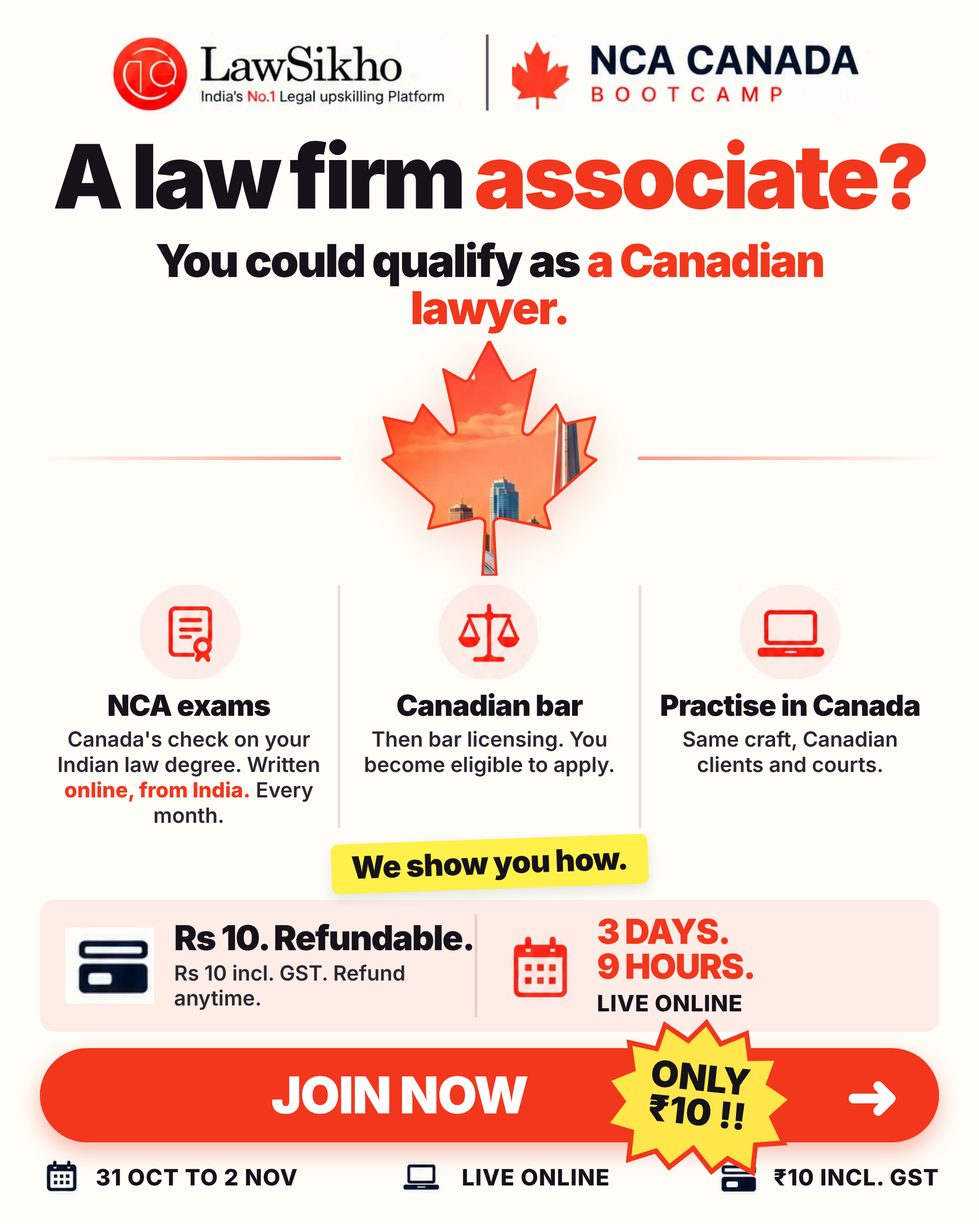
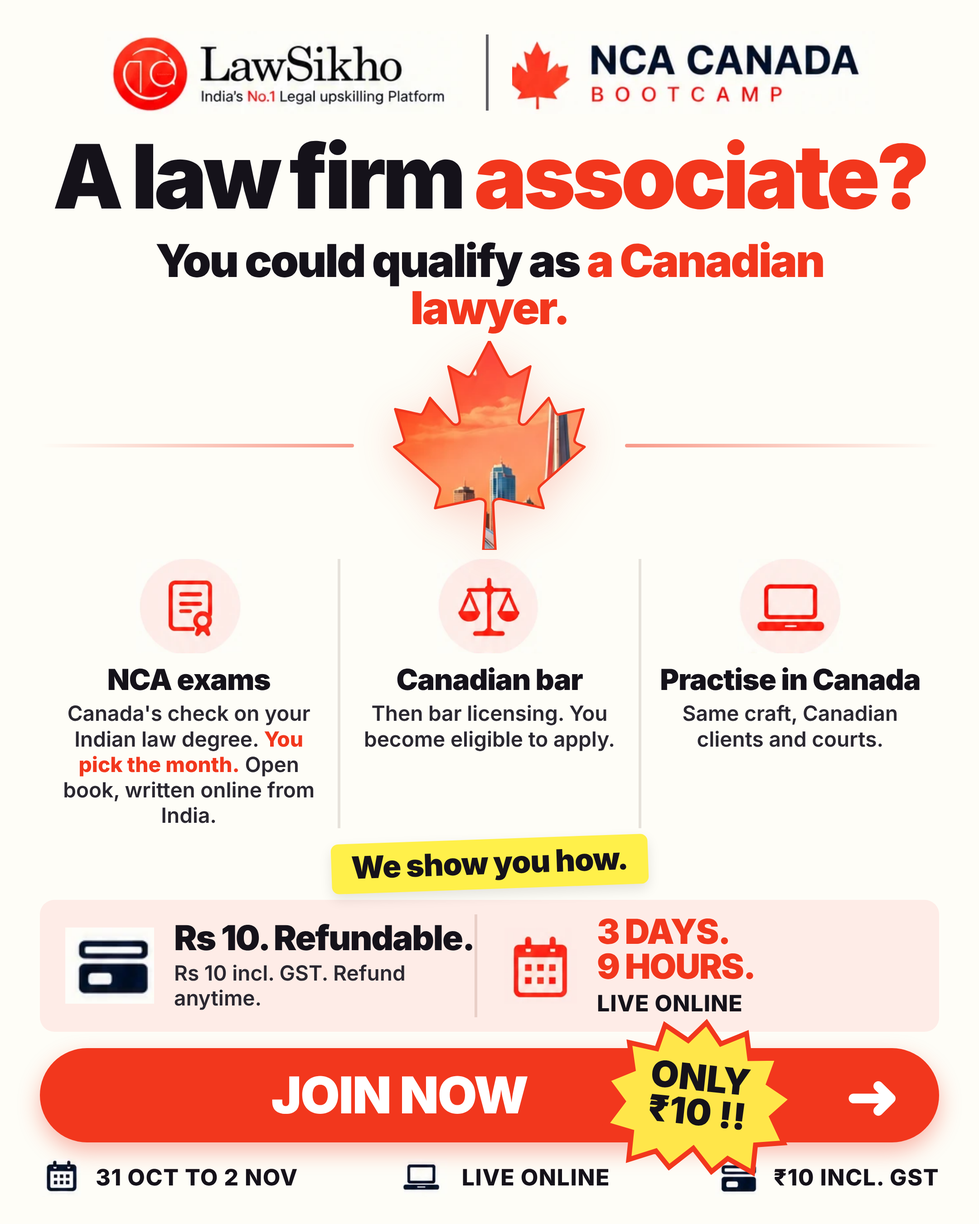
NCA exams pillar: mechanism line with agency
New caption: Canada's check on your Indian law degree. You pick the month.
Open book, written online from India. Pick-the-month is the approved hook 6
phrasing and the around-your-life mechanism blind readers scored highest;
open book is sourced to nca.legal in the web research doc.

Claude-Session: https://claude.ai/code/session_01Rgy1nQS1Vhzfu9YdFrEqSi

diff --git a/creatives/NCA_SkylineTemplate/html/nca_sky_01_broad_thinking_about_canada.html b/creatives/NCA_SkylineTemplate/html/nca_sky_01_broad_thinking_about_canada.html
@@ -46,7 +46,7 @@ em{font-style:normal;color:#F2371D}
 <div class="leafbox"><div class="rule l"></div><div class="leafwrap"><svg viewBox="0 0 512 512" preserveAspectRatio="xMidYMid meet"><defs><clipPath id="leaf"><path d="M383.8 351.7c2.5-2.5 105.2-92.4 105.2-92.4l-17.5-7.5c-10-4.9-7.4-11.5-5-17.4 2.4-7.6 20.1-67.3 20.1-67.3s-47.7 10-57.7 12.5c-7.5 2.4-10-2.5-12.5-7.5s-15-32.4-15-32.4-52.6 59.9-55.1 62.3c-10 7.5-20.1 0-17.6-10 0-10 27.6-129.6 27.6-129.6s-30.1 17.4-40.1 22.4c-7.5 5-12.6 5-17.6-5C293.5 72.3 255.9 0 255.9 0s-37.5 72.3-42.5 79.8c-5 10-10 10-17.6 5-10-5-40.1-22.4-40.1-22.4s27.6 119.6 27.6 129.6c2.5 10-7.5 17.5-17.5 10-2.5-2.5-55.1-62.3-55.1-62.3s-12.5 27.5-15 32.4c-2.5 5.1-5 10-12.5 7.5-10-2.5-57.7-12.5-57.7-12.5s17.7 59.7 20.1 67.3c2.4 6 5 12.5-5 17.4L23 259.3s102.6 89.9 105.2 92.4c5.1 5 10 7.5 5.1 22.5-5.1 15-10.1 35.1-10.1 35.1s95.2-20.1 105.3-22.6c8.7-.9 18.3 2.5 18.3 12.5S241 512 241 512h30s-5.8-102.7-5.8-112.8 9.5-13.4 18.3-12.5c10 2.5 105.3 22.6 105.3 22.6s-5-20.1-10.1-35.1c-4.9-15 0-17.5 5.1-22.5z"/></clipPath></defs>
 <image href="../assets/skyline_fill.png" x="0" y="0" width="512" height="512" preserveAspectRatio="xMidYMid slice" clip-path="url(#leaf)"/>
 <path d="M383.8 351.7c2.5-2.5 105.2-92.4 105.2-92.4l-17.5-7.5c-10-4.9-7.4-11.5-5-17.4 2.4-7.6 20.1-67.3 20.1-67.3s-47.7 10-57.7 12.5c-7.5 2.4-10-2.5-12.5-7.5s-15-32.4-15-32.4-52.6 59.9-55.1 62.3c-10 7.5-20.1 0-17.6-10 0-10 27.6-129.6 27.6-129.6s-30.1 17.4-40.1 22.4c-7.5 5-12.6 5-17.6-5C293.5 72.3 255.9 0 255.9 0s-37.5 72.3-42.5 79.8c-5 10-10 10-17.6 5-10-5-40.1-22.4-40.1-22.4s27.6 119.6 27.6 129.6c2.5 10-7.5 17.5-17.5 10-2.5-2.5-55.1-62.3-55.1-62.3s-12.5 27.5-15 32.4c-2.5 5.1-5 10-12.5 7.5-10-2.5-57.7-12.5-57.7-12.5s17.7 59.7 20.1 67.3c2.4 6 5 12.5-5 17.4L23 259.3s102.6 89.9 105.2 92.4c5.1 5 10 7.5 5.1 22.5-5.1 15-10.1 35.1-10.1 35.1s95.2-20.1 105.3-22.6c8.7-.9 18.3 2.5 18.3 12.5S241 512 241 512h30s-5.8-102.7-5.8-112.8 9.5-13.4 18.3-12.5c10 2.5 105.3 22.6 105.3 22.6s-5-20.1-10.1-35.1c-4.9-15 0-17.5 5.1-22.5z" fill="none" stroke="#F2371D" stroke-width="6" stroke-linejoin="round"/></svg></div><div class="rule r"></div></div>
-<div class="pillars"><div class="pil"><img src="../assets/icon_nca.png"><div class="pt">NCA exams</div><div class="pd">Canada's check on your Indian law degree. Written <em>online, from India.</em> Every month.</div></div><div class="pil"><img src="../assets/icon_bar.png"><div class="pt">Canadian bar</div><div class="pd">Then bar licensing. You become eligible to apply.</div></div><div class="pil"><img src="../assets/icon_laptop.png"><div class="pt">Practise in Canada</div><div class="pd">Same craft, Canadian clients and courts.</div></div></div>
+<div class="pillars"><div class="pil"><img src="../assets/icon_nca.png"><div class="pt">NCA exams</div><div class="pd">Canada's check on your Indian law degree. <em>You pick the month.</em> Open book, written online from India.</div></div><div class="pil"><img src="../assets/icon_bar.png"><div class="pt">Canadian bar</div><div class="pd">Then bar licensing. You become eligible to apply.</div></div><div class="pil"><img src="../assets/icon_laptop.png"><div class="pt">Practise in Canada</div><div class="pd">Same craft, Canadian clients and courts.</div></div></div>
 <div class="sticker">We show you how.</div>
 <div class="band">
  <div class="cell"><img src="../assets/foot_card.png"><div><div class="cb">Rs 10. Refundable.</div><div class="cs">Rs 10 incl. GST. Refund anytime.</div></div></div>

diff --git a/creatives/NCA_SkylineTemplate/html/nca_sky_02_final_year_student.html b/creatives/NCA_SkylineTemplate/html/nca_sky_02_final_year_student.html
@@ -46,7 +46,7 @@ em{font-style:normal;color:#F2371D}
 <div class="leafbox"><div class="rule l"></div><div class="leafwrap"><svg viewBox="0 0 512 512" preserveAspectRatio="xMidYMid meet"><defs><clipPath id="leaf"><path d="M383.8 351.7c2.5-2.5 105.2-92.4 105.2-92.4l-17.5-7.5c-10-4.9-7.4-11.5-5-17.4 2.4-7.6 20.1-67.3 20.1-67.3s-47.7 10-57.7 12.5c-7.5 2.4-10-2.5-12.5-7.5s-15-32.4-15-32.4-52.6 59.9-55.1 62.3c-10 7.5-20.1 0-17.6-10 0-10 27.6-129.6 27.6-129.6s-30.1 17.4-40.1 22.4c-7.5 5-12.6 5-17.6-5C293.5 72.3 255.9 0 255.9 0s-37.5 72.3-42.5 79.8c-5 10-10 10-17.6 5-10-5-40.1-22.4-40.1-22.4s27.6 119.6 27.6 129.6c2.5 10-7.5 17.5-17.5 10-2.5-2.5-55.1-62.3-55.1-62.3s-12.5 27.5-15 32.4c-2.5 5.1-5 10-12.5 7.5-10-2.5-57.7-12.5-57.7-12.5s17.7 59.7 20.1 67.3c2.4 6 5 12.5-5 17.4L23 259.3s102.6 89.9 105.2 92.4c5.1 5 10 7.5 5.1 22.5-5.1 15-10.1 35.1-10.1 35.1s95.2-20.1 105.3-22.6c8.7-.9 18.3 2.5 18.3 12.5S241 512 241 512h30s-5.8-102.7-5.8-112.8 9.5-13.4 18.3-12.5c10 2.5 105.3 22.6 105.3 22.6s-5-20.1-10.1-35.1c-4.9-15 0-17.5 5.1-22.5z"/></clipPath></defs>
 <image href="../assets/skyline_fill.png" x="0" y="0" width="512" height="512" preserveAspectRatio="xMidYMid slice" clip-path="url(#leaf)"/>
 <path d="M383.8 351.7c2.5-2.5 105.2-92.4 105.2-92.4l-17.5-7.5c-10-4.9-7.4-11.5-5-17.4 2.4-7.6 20.1-67.3 20.1-67.3s-47.7 10-57.7 12.5c-7.5 2.4-10-2.5-12.5-7.5s-15-32.4-15-32.4-52.6 59.9-55.1 62.3c-10 7.5-20.1 0-17.6-10 0-10 27.6-129.6 27.6-129.6s-30.1 17.4-40.1 22.4c-7.5 5-12.6 5-17.6-5C293.5 72.3 255.9 0 255.9 0s-37.5 72.3-42.5 79.8c-5 10-10 10-17.6 5-10-5-40.1-22.4-40.1-22.4s27.6 119.6 27.6 129.6c2.5 10-7.5 17.5-17.5 10-2.5-2.5-55.1-62.3-55.1-62.3s-12.5 27.5-15 32.4c-2.5 5.1-5 10-12.5 7.5-10-2.5-57.7-12.5-57.7-12.5s17.7 59.7 20.1 67.3c2.4 6 5 12.5-5 17.4L23 259.3s102.6 89.9 105.2 92.4c5.1 5 10 7.5 5.1 22.5-5.1 15-10.1 35.1-10.1 35.1s95.2-20.1 105.3-22.6c8.7-.9 18.3 2.5 18.3 12.5S241 512 241 512h30s-5.8-102.7-5.8-112.8 9.5-13.4 18.3-12.5c10 2.5 105.3 22.6 105.3 22.6s-5-20.1-10.1-35.1c-4.9-15 0-17.5 5.1-22.5z" fill="none" stroke="#F2371D" stroke-width="6" stroke-linejoin="round"/></svg></div><div class="rule r"></div></div>
-<div class="pillars"><div class="pil"><img src="../assets/icon_nca.png"><div class="pt">NCA exams</div><div class="pd">Canada's check on your Indian law degree. Written <em>online, from India.</em> Every month.</div></div><div class="pil"><img src="../assets/icon_bar.png"><div class="pt">Canadian bar</div><div class="pd">Then bar licensing. You become eligible to apply.</div></div><div class="pil"><img src="../assets/icon_laptop.png"><div class="pt">Practise in Canada</div><div class="pd">Same craft, Canadian clients and courts.</div></div></div>
+<div class="pillars"><div class="pil"><img src="../assets/icon_nca.png"><div class="pt">NCA exams</div><div class="pd">Canada's check on your Indian law degree. <em>You pick the month.</em> Open book, written online from India.</div></div><div class="pil"><img src="../assets/icon_bar.png"><div class="pt">Canadian bar</div><div class="pd">Then bar licensing. You become eligible to apply.</div></div><div class="pil"><img src="../assets/icon_laptop.png"><div class="pt">Practise in Canada</div><div class="pd">Same craft, Canadian clients and courts.</div></div></div>
 <div class="sticker">We show you how.</div>
 <div class="band">
  <div class="cell"><img src="../assets/foot_card.png"><div><div class="cb">Rs 10. Refundable.</div><div class="cs">Rs 10 incl. GST. Refund anytime.</div></div></div>

diff --git a/creatives/NCA_SkylineTemplate/html/nca_sky_03_fresh_graduate.html b/creatives/NCA_SkylineTemplate/html/nca_sky_03_fresh_graduate.html
@@ -46,7 +46,7 @@ em{font-style:normal;color:#F2371D}
 <div class="leafbox"><div class="rule l"></div><div class="leafwrap"><svg viewBox="0 0 512 512" preserveAspectRatio="xMidYMid meet"><defs><clipPath id="leaf"><path d="M383.8 351.7c2.5-2.5 105.2-92.4 105.2-92.4l-17.5-7.5c-10-4.9-7.4-11.5-5-17.4 2.4-7.6 20.1-67.3 20.1-67.3s-47.7 10-57.7 12.5c-7.5 2.4-10-2.5-12.5-7.5s-15-32.4-15-32.4-52.6 59.9-55.1 62.3c-10 7.5-20.1 0-17.6-10 0-10 27.6-129.6 27.6-129.6s-30.1 17.4-40.1 22.4c-7.5 5-12.6 5-17.6-5C293.5 72.3 255.9 0 255.9 0s-37.5 72.3-42.5 79.8c-5 10-10 10-17.6 5-10-5-40.1-22.4-40.1-22.4s27.6 119.6 27.6 129.6c2.5 10-7.5 17.5-17.5 10-2.5-2.5-55.1-62.3-55.1-62.3s-12.5 27.5-15 32.4c-2.5 5.1-5 10-12.5 7.5-10-2.5-57.7-12.5-57.7-12.5s17.7 59.7 20.1 67.3c2.4 6 5 12.5-5 17.4L23 259.3s102.6 89.9 105.2 92.4c5.1 5 10 7.5 5.1 22.5-5.1 15-10.1 35.1-10.1 35.1s95.2-20.1 105.3-22.6c8.7-.9 18.3 2.5 18.3 12.5S241 512 241 512h30s-5.8-102.7-5.8-112.8 9.5-13.4 18.3-12.5c10 2.5 105.3 22.6 105.3 22.6s-5-20.1-10.1-35.1c-4.9-15 0-17.5 5.1-22.5z"/></clipPath></defs>
 <image href="../assets/skyline_fill.png" x="0" y="0" width="512" height="512" preserveAspectRatio="xMidYMid slice" clip-path="url(#leaf)"/>
 <path d="M383.8 351.7c2.5-2.5 105.2-92.4 105.2-92.4l-17.5-7.5c-10-4.9-7.4-11.5-5-17.4 2.4-7.6 20.1-67.3 20.1-67.3s-47.7 10-57.7 12.5c-7.5 2.4-10-2.5-12.5-7.5s-15-32.4-15-32.4-52.6 59.9-55.1 62.3c-10 7.5-20.1 0-17.6-10 0-10 27.6-129.6 27.6-129.6s-30.1 17.4-40.1 22.4c-7.5 5-12.6 5-17.6-5C293.5 72.3 255.9 0 255.9 0s-37.5 72.3-42.5 79.8c-5 10-10 10-17.6 5-10-5-40.1-22.4-40.1-22.4s27.6 119.6 27.6 129.6c2.5 10-7.5 17.5-17.5 10-2.5-2.5-55.1-62.3-55.1-62.3s-12.5 27.5-15 32.4c-2.5 5.1-5 10-12.5 7.5-10-2.5-57.7-12.5-57.7-12.5s17.7 59.7 20.1 67.3c2.4 6 5 12.5-5 17.4L23 259.3s102.6 89.9 105.2 92.4c5.1 5 10 7.5 5.1 22.5-5.1 15-10.1 35.1-10.1 35.1s95.2-20.1 105.3-22.6c8.7-.9 18.3 2.5 18.3 12.5S241 512 241 512h30s-5.8-102.7-5.8-112.8 9.5-13.4 18.3-12.5c10 2.5 105.3 22.6 105.3 22.6s-5-20.1-10.1-35.1c-4.9-15 0-17.5 5.1-22.5z" fill="none" stroke="#F2371D" stroke-width="6" stroke-linejoin="round"/></svg></div><div class="rule r"></div></div>
-<div class="pillars"><div class="pil"><img src="../assets/icon_nca.png"><div class="pt">NCA exams</div><div class="pd">Canada's check on your Indian law degree. Written <em>online, from India.</em> Every month.</div></div><div class="pil"><img src="../assets/icon_bar.png"><div class="pt">Canadian bar</div><div class="pd">Then bar licensing. You become eligible to apply.</div></div><div class="pil"><img src="../assets/icon_laptop.png"><div class="pt">Practise in Canada</div><div class="pd">Same craft, Canadian clients and courts.</div></div></div>
+<div class="pillars"><div class="pil"><img src="../assets/icon_nca.png"><div class="pt">NCA exams</div><div class="pd">Canada's check on your Indian law degree. <em>You pick the month.</em> Open book, written online from India.</div></div><div class="pil"><img src="../assets/icon_bar.png"><div class="pt">Canadian bar</div><div class="pd">Then bar licensing. You become eligible to apply.</div></div><div class="pil"><img src="../assets/icon_laptop.png"><div class="pt">Practise in Canada</div><div class="pd">Same craft, Canadian clients and courts.</div></div></div>
 <div class="sticker">We show you how.</div>
 <div class="band">
  <div class="cell"><img src="../assets/foot_card.png"><div><div class="cb">Rs 10. Refundable.</div><div class="cs">Rs 10 incl. GST. Refund anytime.</div></div></div>

diff --git a/creatives/NCA_SkylineTemplate/html/nca_sky_04_newly_enrolled_advocate.html b/creatives/NCA_SkylineTemplate/html/nca_sky_04_newly_enrolled_advocate.html
@@ -46,7 +46,7 @@ em{font-style:normal;color:#F2371D}
 <div class="leafbox"><div class="rule l"></div><div class="leafwrap"><svg viewBox="0 0 512 512" preserveAspectRatio="xMidYMid meet"><defs><clipPath id="leaf"><path d="M383.8 351.7c2.5-2.5 105.2-92.4 105.2-92.4l-17.5-7.5c-10-4.9-7.4-11.5-5-17.4 2.4-7.6 20.1-67.3 20.1-67.3s-47.7 10-57.7 12.5c-7.5 2.4-10-2.5-12.5-7.5s-15-32.4-15-32.4-52.6 59.9-55.1 62.3c-10 7.5-20.1 0-17.6-10 0-10 27.6-129.6 27.6-129.6s-30.1 17.4-40.1 22.4c-7.5 5-12.6 5-17.6-5C293.5 72.3 255.9 0 255.9 0s-37.5 72.3-42.5 79.8c-5 10-10 10-17.6 5-10-5-40.1-22.4-40.1-22.4s27.6 119.6 27.6 129.6c2.5 10-7.5 17.5-17.5 10-2.5-2.5-55.1-62.3-55.1-62.3s-12.5 27.5-15 32.4c-2.5 5.1-5 10-12.5 7.5-10-2.5-57.7-12.5-57.7-12.5s17.7 59.7 20.1 67.3c2.4 6 5 12.5-5 17.4L23 259.3s102.6 89.9 105.2 92.4c5.1 5 10 7.5 5.1 22.5-5.1 15-10.1 35.1-10.1 35.1s95.2-20.1 105.3-22.6c8.7-.9 18.3 2.5 18.3 12.5S241 512 241 512h30s-5.8-102.7-5.8-112.8 9.5-13.4 18.3-12.5c10 2.5 105.3 22.6 105.3 22.6s-5-20.1-10.1-35.1c-4.9-15 0-17.5 5.1-22.5z"/></clipPath></defs>
 <image href="../assets/skyline_fill.png" x="0" y="0" width="512" height="512" preserveAspectRatio="xMidYMid slice" clip-path="url(#leaf)"/>
 <path d="M383.8 351.7c2.5-2.5 105.2-92.4 105.2-92.4l-17.5-7.5c-10-4.9-7.4-11.5-5-17.4 2.4-7.6 20.1-67.3 20.1-67.3s-47.7 10-57.7 12.5c-7.5 2.4-10-2.5-12.5-7.5s-15-32.4-15-32.4-52.6 59.9-55.1 62.3c-10 7.5-20.1 0-17.6-10 0-10 27.6-129.6 27.6-129.6s-30.1 17.4-40.1 22.4c-7.5 5-12.6 5-17.6-5C293.5 72.3 255.9 0 255.9 0s-37.5 72.3-42.5 79.8c-5 10-10 10-17.6 5-10-5-40.1-22.4-40.1-22.4s27.6 119.6 27.6 129.6c2.5 10-7.5 17.5-17.5 10-2.5-2.5-55.1-62.3-55.1-62.3s-12.5 27.5-15 32.4c-2.5 5.1-5 10-12.5 7.5-10-2.5-57.7-12.5-57.7-12.5s17.7 59.7 20.1 67.3c2.4 6 5 12.5-5 17.4L23 259.3s102.6 89.9 105.2 92.4c5.1 5 10 7.5 5.1 22.5-5.1 15-10.1 35.1-10.1 35.1s95.2-20.1 105.3-22.6c8.7-.9 18.3 2.5 18.3 12.5S241 512 241 512h30s-5.8-102.7-5.8-112.8 9.5-13.4 18.3-12.5c10 2.5 105.3 22.6 105.3 22.6s-5-20.1-10.1-35.1c-4.9-15 0-17.5 5.1-22.5z" fill="none" stroke="#F2371D" stroke-width="6" stroke-linejoin="round"/></svg></div><div class="rule r"></div></div>
-<div class="pillars"><div class="pil"><img src="../assets/icon_nca.png"><div class="pt">NCA exams</div><div class="pd">Canada's check on your Indian law degree. Written <em>online, from India.</em> Every month.</div></div><div class="pil"><img src="../assets/icon_bar.png"><div class="pt">Canadian bar</div><div class="pd">Then bar licensing. You become eligible to apply.</div></div><div class="pil"><img src="../assets/icon_laptop.png"><div class="pt">Practise in Canada</div><div class="pd">Same craft, Canadian clients and courts.</div></div></div>
+<div class="pillars"><div class="pil"><img src="../assets/icon_nca.png"><div class="pt">NCA exams</div><div class="pd">Canada's check on your Indian law degree. <em>You pick the month.</em> Open book, written online from India.</div></div><div class="pil"><img src="../assets/icon_bar.png"><div class="pt">Canadian bar</div><div class="pd">Then bar licensing. You become eligible to apply.</div></div><div class="pil"><img src="../assets/icon_laptop.png"><div class="pt">Practise in Canada</div><div class="pd">Same craft, Canadian clients and courts.</div></div></div>
 <div class="sticker">We show you how.</div>
 <div class="band">
  <div class="cell"><img src="../assets/foot_card.png"><div><div class="cb">Rs 10. Refundable.</div><div class="cs">Rs 10 incl. GST. Refund anytime.</div></div></div>

diff --git a/creatives/NCA_SkylineTemplate/html/nca_sky_05_experienced_advocate.html b/creatives/NCA_SkylineTemplate/html/nca_sky_05_experienced_advocate.html
@@ -46,7 +46,7 @@ em{font-style:normal;color:#F2371D}
 <div class="leafbox"><div class="rule l"></div><div class="leafwrap"><svg viewBox="0 0 512 512" preserveAspectRatio="xMidYMid meet"><defs><clipPath id="leaf"><path d="M383.8 351.7c2.5-2.5 105.2-92.4 105.2-92.4l-17.5-7.5c-10-4.9-7.4-11.5-5-17.4 2.4-7.6 20.1-67.3 20.1-67.3s-47.7 10-57.7 12.5c-7.5 2.4-10-2.5-12.5-7.5s-15-32.4-15-32.4-52.6 59.9-55.1 62.3c-10 7.5-20.1 0-17.6-10 0-10 27.6-129.6 27.6-129.6s-30.1 17.4-40.1 22.4c-7.5 5-12.6 5-17.6-5C293.5 72.3 255.9 0 255.9 0s-37.5 72.3-42.5 79.8c-5 10-10 10-17.6 5-10-5-40.1-22.4-40.1-22.4s27.6 119.6 27.6 129.6c2.5 10-7.5 17.5-17.5 10-2.5-2.5-55.1-62.3-55.1-62.3s-12.5 27.5-15 32.4c-2.5 5.1-5 10-12.5 7.5-10-2.5-57.7-12.5-57.7-12.5s17.7 59.7 20.1 67.3c2.4 6 5 12.5-5 17.4L23 259.3s102.6 89.9 105.2 92.4c5.1 5 10 7.5 5.1 22.5-5.1 15-10.1 35.1-10.1 35.1s95.2-20.1 105.3-22.6c8.7-.9 18.3 2.5 18.3 12.5S241 512 241 512h30s-5.8-102.7-5.8-112.8 9.5-13.4 18.3-12.5c10 2.5 105.3 22.6 105.3 22.6s-5-20.1-10.1-35.1c-4.9-15 0-17.5 5.1-22.5z"/></clipPath></defs>
 <image href="../assets/skyline_fill.png" x="0" y="0" width="512" height="512" preserveAspectRatio="xMidYMid slice" clip-path="url(#leaf)"/>
 <path d="M383.8 351.7c2.5-2.5 105.2-92.4 105.2-92.4l-17.5-7.5c-10-4.9-7.4-11.5-5-17.4 2.4-7.6 20.1-67.3 20.1-67.3s-47.7 10-57.7 12.5c-7.5 2.4-10-2.5-12.5-7.5s-15-32.4-15-32.4-52.6 59.9-55.1 62.3c-10 7.5-20.1 0-17.6-10 0-10 27.6-129.6 27.6-129.6s-30.1 17.4-40.1 22.4c-7.5 5-12.6 5-17.6-5C293.5 72.3 255.9 0 255.9 0s-37.5 72.3-42.5 79.8c-5 10-10 10-17.6 5-10-5-40.1-22.4-40.1-22.4s27.6 119.6 27.6 129.6c2.5 10-7.5 17.5-17.5 10-2.5-2.5-55.1-62.3-55.1-62.3s-12.5 27.5-15 32.4c-2.5 5.1-5 10-12.5 7.5-10-2.5-57.7-12.5-57.7-12.5s17.7 59.7 20.1 67.3c2.4 6 5 12.5-5 17.4L23 259.3s102.6 89.9 105.2 92.4c5.1 5 10 7.5 5.1 22.5-5.1 15-10.1 35.1-10.1 35.1s95.2-20.1 105.3-22.6c8.7-.9 18.3 2.5 18.3 12.5S241 512 241 512h30s-5.8-102.7-5.8-112.8 9.5-13.4 18.3-12.5c10 2.5 105.3 22.6 105.3 22.6s-5-20.1-10.1-35.1c-4.9-15 0-17.5 5.1-22.5z" fill="none" stroke="#F2371D" stroke-width="6" stroke-linejoin="round"/></svg></div><div class="rule r"></div></div>
-<div class="pillars"><div class="pil"><img src="../assets/icon_nca.png"><div class="pt">NCA exams</div><div class="pd">Canada's check on your Indian law degree. Written <em>online, from India.</em> Every month.</div></div><div class="pil"><img src="../assets/icon_bar.png"><div class="pt">Canadian bar</div><div class="pd">Then bar licensing. You become eligible to apply.</div></div><div class="pil"><img src="../assets/icon_laptop.png"><div class="pt">Practise in Canada</div><div class="pd">Same craft, Canadian clients and courts.</div></div></div>
+<div class="pillars"><div class="pil"><img src="../assets/icon_nca.png"><div class="pt">NCA exams</div><div class="pd">Canada's check on your Indian law degree. <em>You pick the month.</em> Open book, written online from India.</div></div><div class="pil"><img src="../assets/icon_bar.png"><div class="pt">Canadian bar</div><div class="pd">Then bar licensing. You become eligible to apply.</div></div><div class="pil"><img src="../assets/icon_laptop.png"><div class="pt">Practise in Canada</div><div class="pd">Same craft, Canadian clients and courts.</div></div></div>
 <div class="sticker">We show you how.</div>
 <div class="band">
  <div class="cell"><img src="../assets/foot_card.png"><div><div class="cb">Rs 10. Refundable.</div><div class="cs">Rs 10 incl. GST. Refund anytime.</div></div></div>

diff --git a/creatives/NCA_SkylineTemplate/html/nca_sky_06_litigator.html b/creatives/NCA_SkylineTemplate/html/nca_sky_06_litigator.html
@@ -46,7 +46,7 @@ em{font-style:normal;color:#F2371D}
 <div class="leafbox"><div class="rule l"></div><div class="leafwrap"><svg viewBox="0 0 512 512" preserveAspectRatio="xMidYMid meet"><defs><clipPath id="leaf"><path d="M383.8 351.7c2.5-2.5 105.2-92.4 105.2-92.4l-17.5-7.5c-10-4.9-7.4-11.5-5-17.4 2.4-7.6 20.1-67.3 20.1-67.3s-47.7 10-57.7 12.5c-7.5 2.4-10-2.5-12.5-7.5s-15-32.4-15-32.4-52.6 59.9-55.1 62.3c-10 7.5-20.1 0-17.6-10 0-10 27.6-129.6 27.6-129.6s-30.1 17.4-40.1 22.4c-7.5 5-12.6 5-17.6-5C293.5 72.3 255.9 0 255.9 0s-37.5 72.3-42.5 79.8c-5 10-10 10-17.6 5-10-5-40.1-22.4-40.1-22.4s27.6 119.6 27.6 129.6c2.5 10-7.5 17.5-17.5 10-2.5-2.5-55.1-62.3-55.1-62.3s-12.5 27.5-15 32.4c-2.5 5.1-5 10-12.5 7.5-10-2.5-57.7-12.5-57.7-12.5s17.7 59.7 20.1 67.3c2.4 6 5 12.5-5 17.4L23 259.3s102.6 89.9 105.2 92.4c5.1 5 10 7.5 5.1 22.5-5.1 15-10.1 35.1-10.1 35.1s95.2-20.1 105.3-22.6c8.7-.9 18.3 2.5 18.3 12.5S241 512 241 512h30s-5.8-102.7-5.8-112.8 9.5-13.4 18.3-12.5c10 2.5 105.3 22.6 105.3 22.6s-5-20.1-10.1-35.1c-4.9-15 0-17.5 5.1-22.5z"/></clipPath></defs>
 <image href="../assets/skyline_fill.png" x="0" y="0" width="512" height="512" preserveAspectRatio="xMidYMid slice" clip-path="url(#leaf)"/>
 <path d="M383.8 351.7c2.5-2.5 105.2-92.4 105.2-92.4l-17.5-7.5c-10-4.9-7.4-11.5-5-17.4 2.4-7.6 20.1-67.3 20.1-67.3s-47.7 10-57.7 12.5c-7.5 2.4-10-2.5-12.5-7.5s-15-32.4-15-32.4-52.6 59.9-55.1 62.3c-10 7.5-20.1 0-17.6-10 0-10 27.6-129.6 27.6-129.6s-30.1 17.4-40.1 22.4c-7.5 5-12.6 5-17.6-5C293.5 72.3 255.9 0 255.9 0s-37.5 72.3-42.5 79.8c-5 10-10 10-17.6 5-10-5-40.1-22.4-40.1-22.4s27.6 119.6 27.6 129.6c2.5 10-7.5 17.5-17.5 10-2.5-2.5-55.1-62.3-55.1-62.3s-12.5 27.5-15 32.4c-2.5 5.1-5 10-12.5 7.5-10-2.5-57.7-12.5-57.7-12.5s17.7 59.7 20.1 67.3c2.4 6 5 12.5-5 17.4L23 259.3s102.6 89.9 105.2 92.4c5.1 5 10 7.5 5.1 22.5-5.1 15-10.1 35.1-10.1 35.1s95.2-20.1 105.3-22.6c8.7-.9 18.3 2.5 18.3 12.5S241 512 241 512h30s-5.8-102.7-5.8-112.8 9.5-13.4 18.3-12.5c10 2.5 105.3 22.6 105.3 22.6s-5-20.1-10.1-35.1c-4.9-15 0-17.5 5.1-22.5z" fill="none" stroke="#F2371D" stroke-width="6" stroke-linejoin="round"/></svg></div><div class="rule r"></div></div>
-<div class="pillars"><div class="pil"><img src="../assets/icon_nca.png"><div class="pt">NCA exams</div><div class="pd">Canada's check on your Indian law degree. Written <em>online, from India.</em> Every month.</div></div><div class="pil"><img src="../assets/icon_bar.png"><div class="pt">Canadian bar</div><div class="pd">Then bar licensing. You become eligible to apply.</div></div><div class="pil"><img src="../assets/icon_laptop.png"><div class="pt">Practise in Canada</div><div class="pd">Same craft, Canadian clients and courts.</div></div></div>
+<div class="pillars"><div class="pil"><img src="../assets/icon_nca.png"><div class="pt">NCA exams</div><div class="pd">Canada's check on your Indian law degree. <em>You pick the month.</em> Open book, written online from India.</div></div><div class="pil"><img src="../assets/icon_bar.png"><div class="pt">Canadian bar</div><div class="pd">Then bar licensing. You become eligible to apply.</div></div><div class="pil"><img src="../assets/icon_laptop.png"><div class="pt">Practise in Canada</div><div class="pd">Same craft, Canadian clients and courts.</div></div></div>
 <div class="sticker">We show you how.</div>
 <div class="band">
  <div class="cell"><img src="../assets/foot_card.png"><div><div class="cb">Rs 10. Refundable.</div><div class="cs">Rs 10 incl. GST. Refund anytime.</div></div></div>

diff --git a/creatives/NCA_SkylineTemplate/html/nca_sky_07_corporate_contract_lawyer.html b/creatives/NCA_SkylineTemplate/html/nca_sky_07_corporate_contract_lawyer.html
@@ -46,7 +46,7 @@ em{font-style:normal;color:#F2371D}
 <div class="leafbox"><div class="rule l"></div><div class="leafwrap"><svg viewBox="0 0 512 512" preserveAspectRatio="xMidYMid meet"><defs><clipPath id="leaf"><path d="M383.8 351.7c2.5-2.5 105.2-92.4 105.2-92.4l-17.5-7.5c-10-4.9-7.4-11.5-5-17.4 2.4-7.6 20.1-67.3 20.1-67.3s-47.7 10-57.7 12.5c-7.5 2.4-10-2.5-12.5-7.5s-15-32.4-15-32.4-52.6 59.9-55.1 62.3c-10 7.5-20.1 0-17.6-10 0-10 27.6-129.6 27.6-129.6s-30.1 17.4-40.1 22.4c-7.5 5-12.6 5-17.6-5C293.5 72.3 255.9 0 255.9 0s-37.5 72.3-42.5 79.8c-5 10-10 10-17.6 5-10-5-40.1-22.4-40.1-22.4s27.6 119.6 27.6 129.6c2.5 10-7.5 17.5-17.5 10-2.5-2.5-55.1-62.3-55.1-62.3s-12.5 27.5-15 32.4c-2.5 5.1-5 10-12.5 7.5-10-2.5-57.7-12.5-57.7-12.5s17.7 59.7 20.1 67.3c2.4 6 5 12.5-5 17.4L23 259.3s102.6 89.9 105.2 92.4c5.1 5 10 7.5 5.1 22.5-5.1 15-10.1 35.1-10.1 35.1s95.2-20.1 105.3-22.6c8.7-.9 18.3 2.5 18.3 12.5S241 512 241 512h30s-5.8-102.7-5.8-112.8 9.5-13.4 18.3-12.5c10 2.5 105.3 22.6 105.3 22.6s-5-20.1-10.1-35.1c-4.9-15 0-17.5 5.1-22.5z"/></clipPath></defs>
 <image href="../assets/skyline_fill.png" x="0" y="0" width="512" height="512" preserveAspectRatio="xMidYMid slice" clip-path="url(#leaf)"/>
 <path d="M383.8 351.7c2.5-2.5 105.2-92.4 105.2-92.4l-17.5-7.5c-10-4.9-7.4-11.5-5-17.4 2.4-7.6 20.1-67.3 20.1-67.3s-47.7 10-57.7 12.5c-7.5 2.4-10-2.5-12.5-7.5s-15-32.4-15-32.4-52.6 59.9-55.1 62.3c-10 7.5-20.1 0-17.6-10 0-10 27.6-129.6 27.6-129.6s-30.1 17.4-40.1 22.4c-7.5 5-12.6 5-17.6-5C293.5 72.3 255.9 0 255.9 0s-37.5 72.3-42.5 79.8c-5 10-10 10-17.6 5-10-5-40.1-22.4-40.1-22.4s27.6 119.6 27.6 129.6c2.5 10-7.5 17.5-17.5 10-2.5-2.5-55.1-62.3-55.1-62.3s-12.5 27.5-15 32.4c-2.5 5.1-5 10-12.5 7.5-10-2.5-57.7-12.5-57.7-12.5s17.7 59.7 20.1 67.3c2.4 6 5 12.5-5 17.4L23 259.3s102.6 89.9 105.2 92.4c5.1 5 10 7.5 5.1 22.5-5.1 15-10.1 35.1-10.1 35.1s95.2-20.1 105.3-22.6c8.7-.9 18.3 2.5 18.3 12.5S241 512 241 512h30s-5.8-102.7-5.8-112.8 9.5-13.4 18.3-12.5c10 2.5 105.3 22.6 105.3 22.6s-5-20.1-10.1-35.1c-4.9-15 0-17.5 5.1-22.5z" fill="none" stroke="#F2371D" stroke-width="6" stroke-linejoin="round"/></svg></div><div class="rule r"></div></div>
-<div class="pillars"><div class="pil"><img src="../assets/icon_nca.png"><div class="pt">NCA exams</div><div class="pd">Canada's check on your Indian law degree. Written <em>online, from India.</em> Every month.</div></div><div class="pil"><img src="../assets/icon_bar.png"><div class="pt">Canadian bar</div><div class="pd">Then bar licensing. You become eligible to apply.</div></div><div class="pil"><img src="../assets/icon_laptop.png"><div class="pt">Practise in Canada</div><div class="pd">Same craft, Canadian clients and courts.</div></div></div>
+<div class="pillars"><div class="pil"><img src="../assets/icon_nca.png"><div class="pt">NCA exams</div><div class="pd">Canada's check on your Indian law degree. <em>You pick the month.</em> Open book, written online from India.</div></div><div class="pil"><img src="../assets/icon_bar.png"><div class="pt">Canadian bar</div><div class="pd">Then bar licensing. You become eligible to apply.</div></div><div class="pil"><img src="../assets/icon_laptop.png"><div class="pt">Practise in Canada</div><div class="pd">Same craft, Canadian clients and courts.</div></div></div>
 <div class="sticker">We show you how.</div>
 <div class="band">
  <div class="cell"><img src="../assets/foot_card.png"><div><div class="cb">Rs 10. Refundable.</div><div class="cs">Rs 10 incl. GST. Refund anytime.</div></div></div>

diff --git a/creatives/NCA_SkylineTemplate/html/nca_sky_08_law_firm_associate.html b/creatives/NCA_SkylineTemplate/html/nca_sky_08_law_firm_associate.html
@@ -46,7 +46,7 @@ em{font-style:normal;color:#F2371D}
 <div class="leafbox"><div class="rule l"></div><div class="leafwrap"><svg viewBox="0 0 512 512" preserveAspectRatio="xMidYMid meet"><defs><clipPath id="leaf"><path d="M383.8 351.7c2.5-2.5 105.2-92.4 105.2-92.4l-17.5-7.5c-10-4.9-7.4-11.5-5-17.4 2.4-7.6 20.1-67.3 20.1-67.3s-47.7 10-57.7 12.5c-7.5 2.4-10-2.5-12.5-7.5s-15-32.4-15-32.4-52.6 59.9-55.1 62.3c-10 7.5-20.1 0-17.6-10 0-10 27.6-129.6 27.6-129.6s-30.1 17.4-40.1 22.4c-7.5 5-12.6 5-17.6-5C293.5 72.3 255.9 0 255.9 0s-37.5 72.3-42.5 79.8c-5 10-10 10-17.6 5-10-5-40.1-22.4-40.1-22.4s27.6 119.6 27.6 129.6c2.5 10-7.5 17.5-17.5 10-2.5-2.5-55.1-62.3-55.1-62.3s-12.5 27.5-15 32.4c-2.5 5.1-5 10-12.5 7.5-10-2.5-57.7-12.5-57.7-12.5s17.7 59.7 20.1 67.3c2.4 6 5 12.5-5 17.4L23 259.3s102.6 89.9 105.2 92.4c5.1 5 10 7.5 5.1 22.5-5.1 15-10.1 35.1-10.1 35.1s95.2-20.1 105.3-22.6c8.7-.9 18.3 2.5 18.3 12.5S241 512 241 512h30s-5.8-102.7-5.8-112.8 9.5-13.4 18.3-12.5c10 2.5 105.3 22.6 105.3 22.6s-5-20.1-10.1-35.1c-4.9-15 0-17.5 5.1-22.5z"/></clipPath></defs>
 <image href="../assets/skyline_fill.png" x="0" y="0" width="512" height="512" preserveAspectRatio="xMidYMid slice" clip-path="url(#leaf)"/>
 <path d="M383.8 351.7c2.5-2.5 105.2-92.4 105.2-92.4l-17.5-7.5c-10-4.9-7.4-11.5-5-17.4 2.4-7.6 20.1-67.3 20.1-67.3s-47.7 10-57.7 12.5c-7.5 2.4-10-2.5-12.5-7.5s-15-32.4-15-32.4-52.6 59.9-55.1 62.3c-10 7.5-20.1 0-17.6-10 0-10 27.6-129.6 27.6-129.6s-30.1 17.4-40.1 22.4c-7.5 5-12.6 5-17.6-5C293.5 72.3 255.9 0 255.9 0s-37.5 72.3-42.5 79.8c-5 10-10 10-17.6 5-10-5-40.1-22.4-40.1-22.4s27.6 119.6 27.6 129.6c2.5 10-7.5 17.5-17.5 10-2.5-2.5-55.1-62.3-55.1-62.3s-12.5 27.5-15 32.4c-2.5 5.1-5 10-12.5 7.5-10-2.5-57.7-12.5-57.7-12.5s17.7 59.7 20.1 67.3c2.4 6 5 12.5-5 17.4L23 259.3s102.6 89.9 105.2 92.4c5.1 5 10 7.5 5.1 22.5-5.1 15-10.1 35.1-10.1 35.1s95.2-20.1 105.3-22.6c8.7-.9 18.3 2.5 18.3 12.5S241 512 241 512h30s-5.8-102.7-5.8-112.8 9.5-13.4 18.3-12.5c10 2.5 105.3 22.6 105.3 22.6s-5-20.1-10.1-35.1c-4.9-15 0-17.5 5.1-22.5z" fill="none" stroke="#F2371D" stroke-width="6" stroke-linejoin="round"/></svg></div><div class="rule r"></div></div>
-<div class="pillars"><div class="pil"><img src="../assets/icon_nca.png"><div class="pt">NCA exams</div><div class="pd">Canada's check on your Indian law degree. Written <em>online, from India.</em> Every month.</div></div><div class="pil"><img src="../assets/icon_bar.png"><div class="pt">Canadian bar</div><div class="pd">Then bar licensing. You become eligible to apply.</div></div><div class="pil"><img src="../assets/icon_laptop.png"><div class="pt">Practise in Canada</div><div class="pd">Same craft, Canadian clients and courts.</div></div></div>
+<div class="pillars"><div class="pil"><img src="../assets/icon_nca.png"><div class="pt">NCA exams</div><div class="pd">Canada's check on your Indian law degree. <em>You pick the month.</em> Open book, written online from India.</div></div><div class="pil"><img src="../assets/icon_bar.png"><div class="pt">Canadian bar</div><div class="pd">Then bar licensing. You become eligible to apply.</div></div><div class="pil"><img src="../assets/icon_laptop.png"><div class="pt">Practise in Canada</div><div class="pd">Same craft, Canadian clients and courts.</div></div></div>
 <div class="sticker">We show you how.</div>
 <div class="band">
  <div class="cell"><img src="../assets/foot_card.png"><div><div class="cb">Rs 10. Refundable.</div><div class="cs">Rs 10 incl. GST. Refund anytime.</div></div></div>

diff --git a/creatives/NCA_SkylineTemplate/html/nca_sky_09_moving_to_canada.html b/creatives/NCA_SkylineTemplate/html/nca_sky_09_moving_to_canada.html
@@ -46,7 +46,7 @@ em{font-style:normal;color:#F2371D}
 <div class="leafbox"><div class="rule l"></div><div class="leafwrap"><svg viewBox="0 0 512 512" preserveAspectRatio="xMidYMid meet"><defs><clipPath id="leaf"><path d="M383.8 351.7c2.5-2.5 105.2-92.4 105.2-92.4l-17.5-7.5c-10-4.9-7.4-11.5-5-17.4 2.4-7.6 20.1-67.3 20.1-67.3s-47.7 10-57.7 12.5c-7.5 2.4-10-2.5-12.5-7.5s-15-32.4-15-32.4-52.6 59.9-55.1 62.3c-10 7.5-20.1 0-17.6-10 0-10 27.6-129.6 27.6-129.6s-30.1 17.4-40.1 22.4c-7.5 5-12.6 5-17.6-5C293.5 72.3 255.9 0 255.9 0s-37.5 72.3-42.5 79.8c-5 10-10 10-17.6 5-10-5-40.1-22.4-40.1-22.4s27.6 119.6 27.6 129.6c2.5 10-7.5 17.5-17.5 10-2.5-2.5-55.1-62.3-55.1-62.3s-12.5 27.5-15 32.4c-2.5 5.1-5 10-12.5 7.5-10-2.5-57.7-12.5-57.7-12.5s17.7 59.7 20.1 67.3c2.4 6 5 12.5-5 17.4L23 259.3s102.6 89.9 105.2 92.4c5.1 5 10 7.5 5.1 22.5-5.1 15-10.1 35.1-10.1 35.1s95.2-20.1 105.3-22.6c8.7-.9 18.3 2.5 18.3 12.5S241 512 241 512h30s-5.8-102.7-5.8-112.8 9.5-13.4 18.3-12.5c10 2.5 105.3 22.6 105.3 22.6s-5-20.1-10.1-35.1c-4.9-15 0-17.5 5.1-22.5z"/></clipPath></defs>
 <image href="../assets/skyline_fill.png" x="0" y="0" width="512" height="512" preserveAspectRatio="xMidYMid slice" clip-path="url(#leaf)"/>
 <path d="M383.8 351.7c2.5-2.5 105.2-92.4 105.2-92.4l-17.5-7.5c-10-4.9-7.4-11.5-5-17.4 2.4-7.6 20.1-67.3 20.1-67.3s-47.7 10-57.7 12.5c-7.5 2.4-10-2.5-12.5-7.5s-15-32.4-15-32.4-52.6 59.9-55.1 62.3c-10 7.5-20.1 0-17.6-10 0-10 27.6-129.6 27.6-129.6s-30.1 17.4-40.1 22.4c-7.5 5-12.6 5-17.6-5C293.5 72.3 255.9 0 255.9 0s-37.5 72.3-42.5 79.8c-5 10-10 10-17.6 5-10-5-40.1-22.4-40.1-22.4s27.6 119.6 27.6 129.6c2.5 10-7.5 17.5-17.5 10-2.5-2.5-55.1-62.3-55.1-62.3s-12.5 27.5-15 32.4c-2.5 5.1-5 10-12.5 7.5-10-2.5-57.7-12.5-57.7-12.5s17.7 59.7 20.1 67.3c2.4 6 5 12.5-5 17.4L23 259.3s102.6 89.9 105.2 92.4c5.1 5 10 7.5 5.1 22.5-5.1 15-10.1 35.1-10.1 35.1s95.2-20.1 105.3-22.6c8.7-.9 18.3 2.5 18.3 12.5S241 512 241 512h30s-5.8-102.7-5.8-112.8 9.5-13.4 18.3-12.5c10 2.5 105.3 22.6 105.3 22.6s-5-20.1-10.1-35.1c-4.9-15 0-17.5 5.1-22.5z" fill="none" stroke="#F2371D" stroke-width="6" stroke-linejoin="round"/></svg></div><div class="rule r"></div></div>
-<div class="pillars"><div class="pil"><img src="../assets/icon_nca.png"><div class="pt">NCA exams</div><div class="pd">Canada's check on your Indian law degree. Written <em>online, from India.</em> Every month.</div></div><div class="pil"><img src="../assets/icon_bar.png"><div class="pt">Canadian bar</div><div class="pd">Then bar licensing. You become eligible to apply.</div></div><div class="pil"><img src="../assets/icon_laptop.png"><div class="pt">Practise in Canada</div><div class="pd">Same craft, Canadian clients and courts.</div></div></div>
+<div class="pillars"><div class="pil"><img src="../assets/icon_nca.png"><div class="pt">NCA exams</div><div class="pd">Canada's check on your Indian law degree. <em>You pick the month.</em> Open book, written online from India.</div></div><div class="pil"><img src="../assets/icon_bar.png"><div class="pt">Canadian bar</div><div class="pd">Then bar licensing. You become eligible to apply.</div></div><div class="pil"><img src="../assets/icon_laptop.png"><div class="pt">Practise in Canada</div><div class="pd">Same craft, Canadian clients and courts.</div></div></div>
 <div class="sticker">We show you how.</div>
 <div class="band">
  <div class="cell"><img src="../assets/foot_card.png"><div><div class="cb">Rs 10. Refundable.</div><div class="cs">Rs 10 incl. GST. Refund anytime.</div></div></div>

diff --git a/creatives/NCA_SkylineTemplate/html/nca_sky_10_in_house_counsel.html b/creatives/NCA_SkylineTemplate/html/nca_sky_10_in_house_counsel.html
@@ -46,7 +46,7 @@ em{font-style:normal;color:#F2371D}
 <div class="leafbox"><div class="rule l"></div><div class="leafwrap"><svg viewBox="0 0 512 512" preserveAspectRatio="xMidYMid meet"><defs><clipPath id="leaf"><path d="M383.8 351.7c2.5-2.5 105.2-92.4 105.2-92.4l-17.5-7.5c-10-4.9-7.4-11.5-5-17.4 2.4-7.6 20.1-67.3 20.1-67.3s-47.7 10-57.7 12.5c-7.5 2.4-10-2.5-12.5-7.5s-15-32.4-15-32.4-52.6 59.9-55.1 62.3c-10 7.5-20.1 0-17.6-10 0-10 27.6-129.6 27.6-129.6s-30.1 17.4-40.1 22.4c-7.5 5-12.6 5-17.6-5C293.5 72.3 255.9 0 255.9 0s-37.5 72.3-42.5 79.8c-5 10-10 10-17.6 5-10-5-40.1-22.4-40.1-22.4s27.6 119.6 27.6 129.6c2.5 10-7.5 17.5-17.5 10-2.5-2.5-55.1-62.3-55.1-62.3s-12.5 27.5-15 32.4c-2.5 5.1-5 10-12.5 7.5-10-2.5-57.7-12.5-57.7-12.5s17.7 59.7 20.1 67.3c2.4 6 5 12.5-5 17.4L23 259.3s102.6 89.9 105.2 92.4c5.1 5 10 7.5 5.1 22.5-5.1 15-10.1 35.1-10.1 35.1s95.2-20.1 105.3-22.6c8.7-.9 18.3 2.5 18.3 12.5S241 512 241 512h30s-5.8-102.7-5.8-112.8 9.5-13.4 18.3-12.5c10 2.5 105.3 22.6 105.3 22.6s-5-20.1-10.1-35.1c-4.9-15 0-17.5 5.1-22.5z"/></clipPath></defs>
 <image href="../assets/skyline_fill.png" x="0" y="0" width="512" height="512" preserveAspectRatio="xMidYMid slice" clip-path="url(#leaf)"/>
 <path d="M383.8 351.7c2.5-2.5 105.2-92.4 105.2-92.4l-17.5-7.5c-10-4.9-7.4-11.5-5-17.4 2.4-7.6 20.1-67.3 20.1-67.3s-47.7 10-57.7 12.5c-7.5 2.4-10-2.5-12.5-7.5s-15-32.4-15-32.4-52.6 59.9-55.1 62.3c-10 7.5-20.1 0-17.6-10 0-10 27.6-129.6 27.6-129.6s-30.1 17.4-40.1 22.4c-7.5 5-12.6 5-17.6-5C293.5 72.3 255.9 0 255.9 0s-37.5 72.3-42.5 79.8c-5 10-10 10-17.6 5-10-5-40.1-22.4-40.1-22.4s27.6 119.6 27.6 129.6c2.5 10-7.5 17.5-17.5 10-2.5-2.5-55.1-62.3-55.1-62.3s-12.5 27.5-15 32.4c-2.5 5.1-5 10-12.5 7.5-10-2.5-57.7-12.5-57.7-12.5s17.7 59.7 20.1 67.3c2.4 6 5 12.5-5 17.4L23 259.3s102.6 89.9 105.2 92.4c5.1 5 10 7.5 5.1 22.5-5.1 15-10.1 35.1-10.1 35.1s95.2-20.1 105.3-22.6c8.7-.9 18.3 2.5 18.3 12.5S241 512 241 512h30s-5.8-102.7-5.8-112.8 9.5-13.4 18.3-12.5c10 2.5 105.3 22.6 105.3 22.6s-5-20.1-10.1-35.1c-4.9-15 0-17.5 5.1-22.5z" fill="none" stroke="#F2371D" stroke-width="6" stroke-linejoin="round"/></svg></div><div class="rule r"></div></div>
-<div class="pillars"><div class="pil"><img src="../assets/icon_nca.png"><div class="pt">NCA exams</div><div class="pd">Canada's check on your Indian law degree. Written <em>online, from India.</em> Every month.</div></div><div class="pil"><img src="../assets/icon_bar.png"><div class="pt">Canadian bar</div><div class="pd">Then bar licensing. You become eligible to apply.</div></div><div class="pil"><img src="../assets/icon_laptop.png"><div class="pt">Practise in Canada</div><div class="pd">Same craft, Canadian clients and courts.</div></div></div>
+<div class="pillars"><div class="pil"><img src="../assets/icon_nca.png"><div class="pt">NCA exams</div><div class="pd">Canada's check on your Indian law degree. <em>You pick the month.</em> Open book, written online from India.</div></div><div class="pil"><img src="../assets/icon_bar.png"><div class="pt">Canadian bar</div><div class="pd">Then bar licensing. You become eligible to apply.</div></div><div class="pil"><img src="../assets/icon_laptop.png"><div class="pt">Practise in Canada</div><div class="pd">Same craft, Canadian clients and courts.</div></div></div>
 <div class="sticker">We show you how.</div>
 <div class="band">
  <div class="cell"><img src="../assets/foot_card.png"><div><div class="cb">Rs 10. Refundable.</div><div class="cs">Rs 10 incl. GST. Refund anytime.</div></div></div>

diff --git a/creatives/NCA_SkylineTemplate/template.py b/creatives/NCA_SkylineTemplate/template.py
@@ -22,7 +22,7 @@ DEFAULTS = dict(
     prize_max_height=108, prize_max_px=68,
     # FIXED FOR THE WAVE. Three route pillars: NCA exams, then bar licensing, then practise.
     pillars=[
-        ("icon_nca.png", "NCA exams", "Canada's check on your Indian law degree. Written <em>online, from India.</em> Every month."),
+        ("icon_nca.png", "NCA exams", "Canada's check on your Indian law degree. <em>You pick the month.</em> Open book, written online from India."),
         ("icon_bar.png", "Canadian bar", "Then bar licensing. You become eligible to apply."),
         ("icon_laptop.png", "Practise in Canada", "Same craft, Canadian clients and courts."),
     ],
